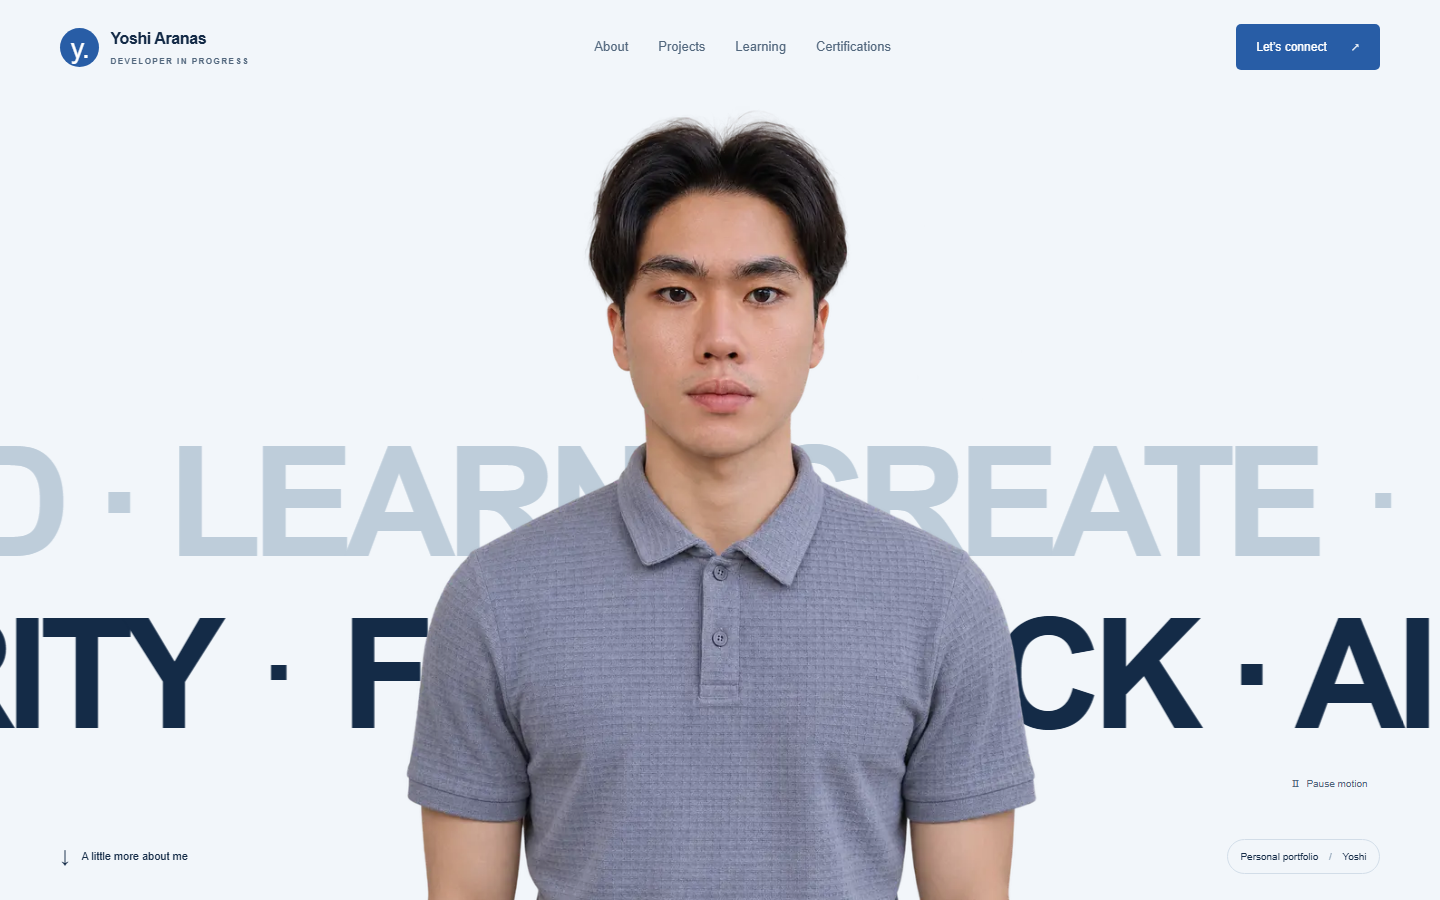
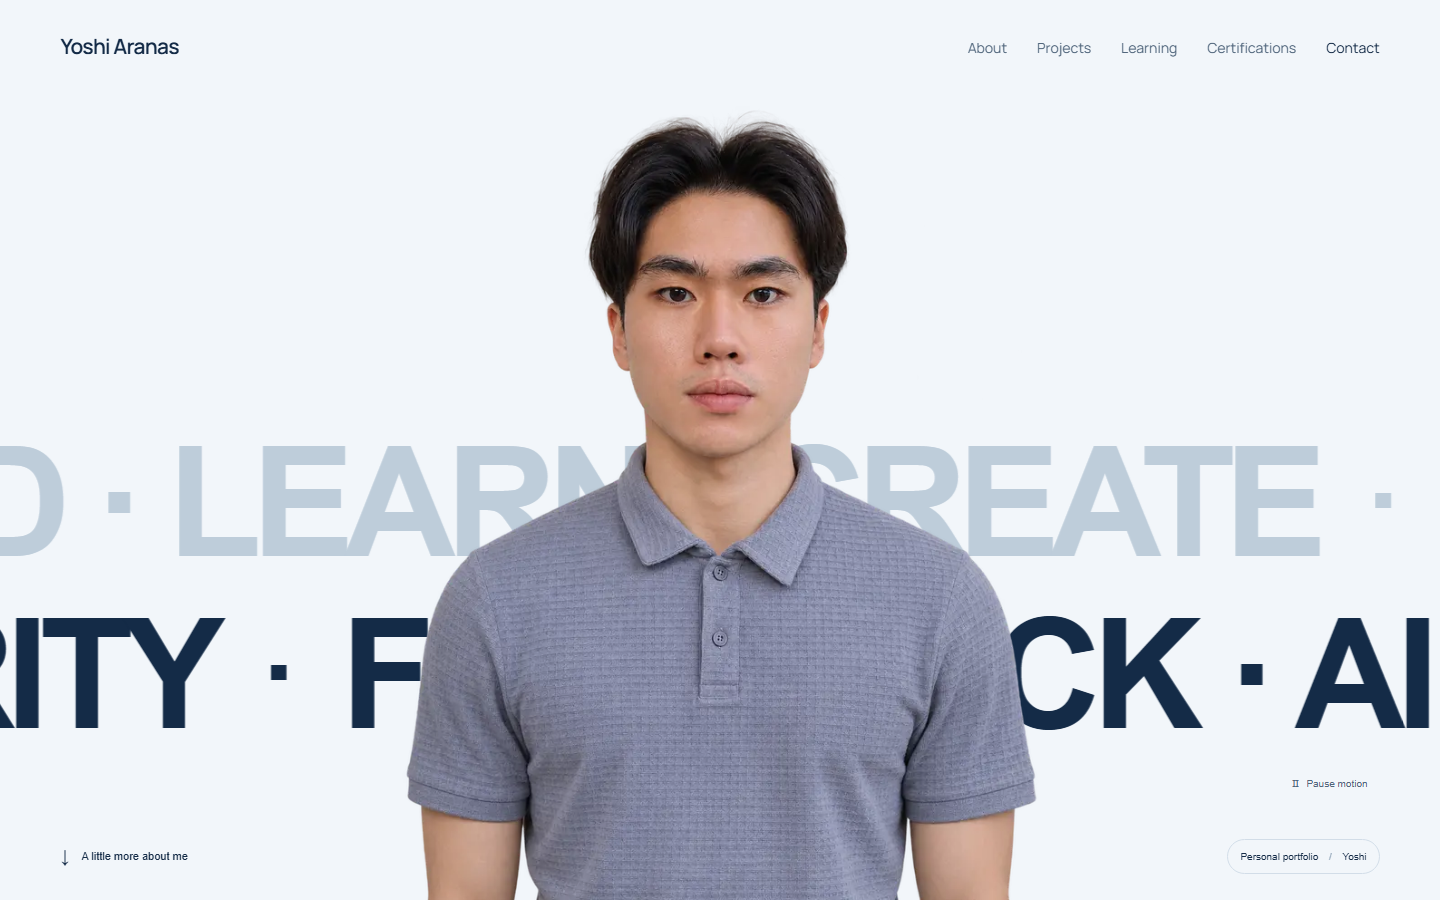
Simplify portfolio navigation and refresh preview

diff --git a/components/navigation.css b/components/navigation.css
@@ -1,0 +1,94 @@
+/* Navigation only; the portrait hero keeps its existing layout and typography. */
+.header .nav-inner {
+  font-family: Manrope, Arial, sans-serif;
+}
+.site-name {
+  display: inline-flex;
+  align-items: center;
+  min-height: 44px;
+  font-size: 21px;
+  font-weight: 600;
+  letter-spacing: -0.035em;
+  white-space: nowrap;
+}
+.site-links {
+  display: flex;
+  align-items: center;
+  gap: 30px;
+}
+.site-links a {
+  display: inline-flex;
+  align-items: center;
+  min-height: 44px;
+  font-size: 14px;
+  color: var(--muted);
+  text-decoration: underline;
+  text-decoration-color: transparent;
+  text-underline-offset: 7px;
+  transition: color 160ms, text-decoration-color 160ms;
+}
+.site-links a:hover,
+.site-links a:focus-visible {
+  color: var(--ink);
+  text-decoration-color: currentColor;
+}
+.site-links a:last-child {
+  color: var(--ink);
+}
+.site-menu {
+  display: none;
+  position: relative;
+}
+@media (max-width: 760px) {
+  .site-name {
+    font-size: 19px;
+  }
+  .site-links {
+    display: none;
+  }
+  .site-menu {
+    display: block;
+  }
+  .site-menu summary {
+    display: flex;
+    align-items: center;
+    gap: 12px;
+    min-height: 44px;
+    padding-left: 12px;
+    list-style: none;
+    cursor: pointer;
+    font-size: 14px;
+  }
+  .site-menu summary::-webkit-details-marker {
+    display: none;
+  }
+  .site-menu summary .ui-icon {
+    width: 16px;
+    height: 16px;
+    transition: transform 180ms ease;
+  }
+  .site-menu[open] summary .ui-icon {
+    transform: rotate(45deg);
+  }
+  .site-menu nav {
+    position: absolute;
+    right: 0;
+    top: 52px;
+    width: min(300px, calc(100vw - 44px));
+    padding: 12px 20px;
+    background: var(--paper);
+    border: 1px solid var(--line);
+  }
+  .site-menu nav a {
+    display: flex;
+    align-items: center;
+    min-height: 48px;
+    font-size: 16px;
+  }
+  .site-menu nav a + a {
+    border-top: 1px solid var(--line);
+  }
+  .site-menu nav a:hover {
+    color: var(--accent);
+  }
+}

diff --git a/components/navigation.tsx b/components/navigation.tsx
@@ -1,47 +1,37 @@
 import { profile } from "@/data/portfolio";
+import { Icon } from "./icon";
+import "./navigation.css";
 
 const links = [
   ["About", "about"],
   ["Projects", "projects"],
   ["Learning", "learning"],
+  ["Certifications", "certifications"],
+  ["Contact", "contact"],
 ];
 
 export function Navigation() {
   return (
     <header className="header">
       <div className="wrap nav-inner">
-        <a className="brand" href="#home" aria-label={`${profile.name}, home`}>
-          <span className="brand-mark" aria-hidden="true">
-            y.
-          </span>
-          <span>
-            Yoshi Aranas<span className="brand-sub">DEVELOPER IN PROGRESS</span>
-          </span>
+        <a className="site-name" href="#home" aria-label={`${profile.name}, home`}>
+          Yoshi Aranas
         </a>
-        <nav aria-label="Main navigation" className="desktop-nav">
+        <nav aria-label="Main navigation" className="site-links">
           {links.map(([label, id]) => (
             <a key={id} href={`#${id}`}>
               {label}
             </a>
           ))}
-          <a href="#certifications">Certifications</a>
         </nav>
-        <a className="button button-small" href="#contact">
-          Let’s connect <span aria-hidden="true">↗</span>
-        </a>
-        <details className="mobile-menu">
+        <details className="site-menu">
           <summary>
-            Menu <span aria-hidden="true">＋</span>
+            Menu <Icon name="plus" />
           </summary>
           <nav aria-label="Mobile navigation">
-            {[
-              ...links,
-              ["Certifications", "certifications"],
-              ["Contact", "contact"],
-            ].map(([label, id]) => (
+            {links.map(([label, id]) => (
               <a key={id} href={`#${id}`}>
                 {label}
-                <span aria-hidden="true">↗</span>
               </a>
             ))}
           </nav>
